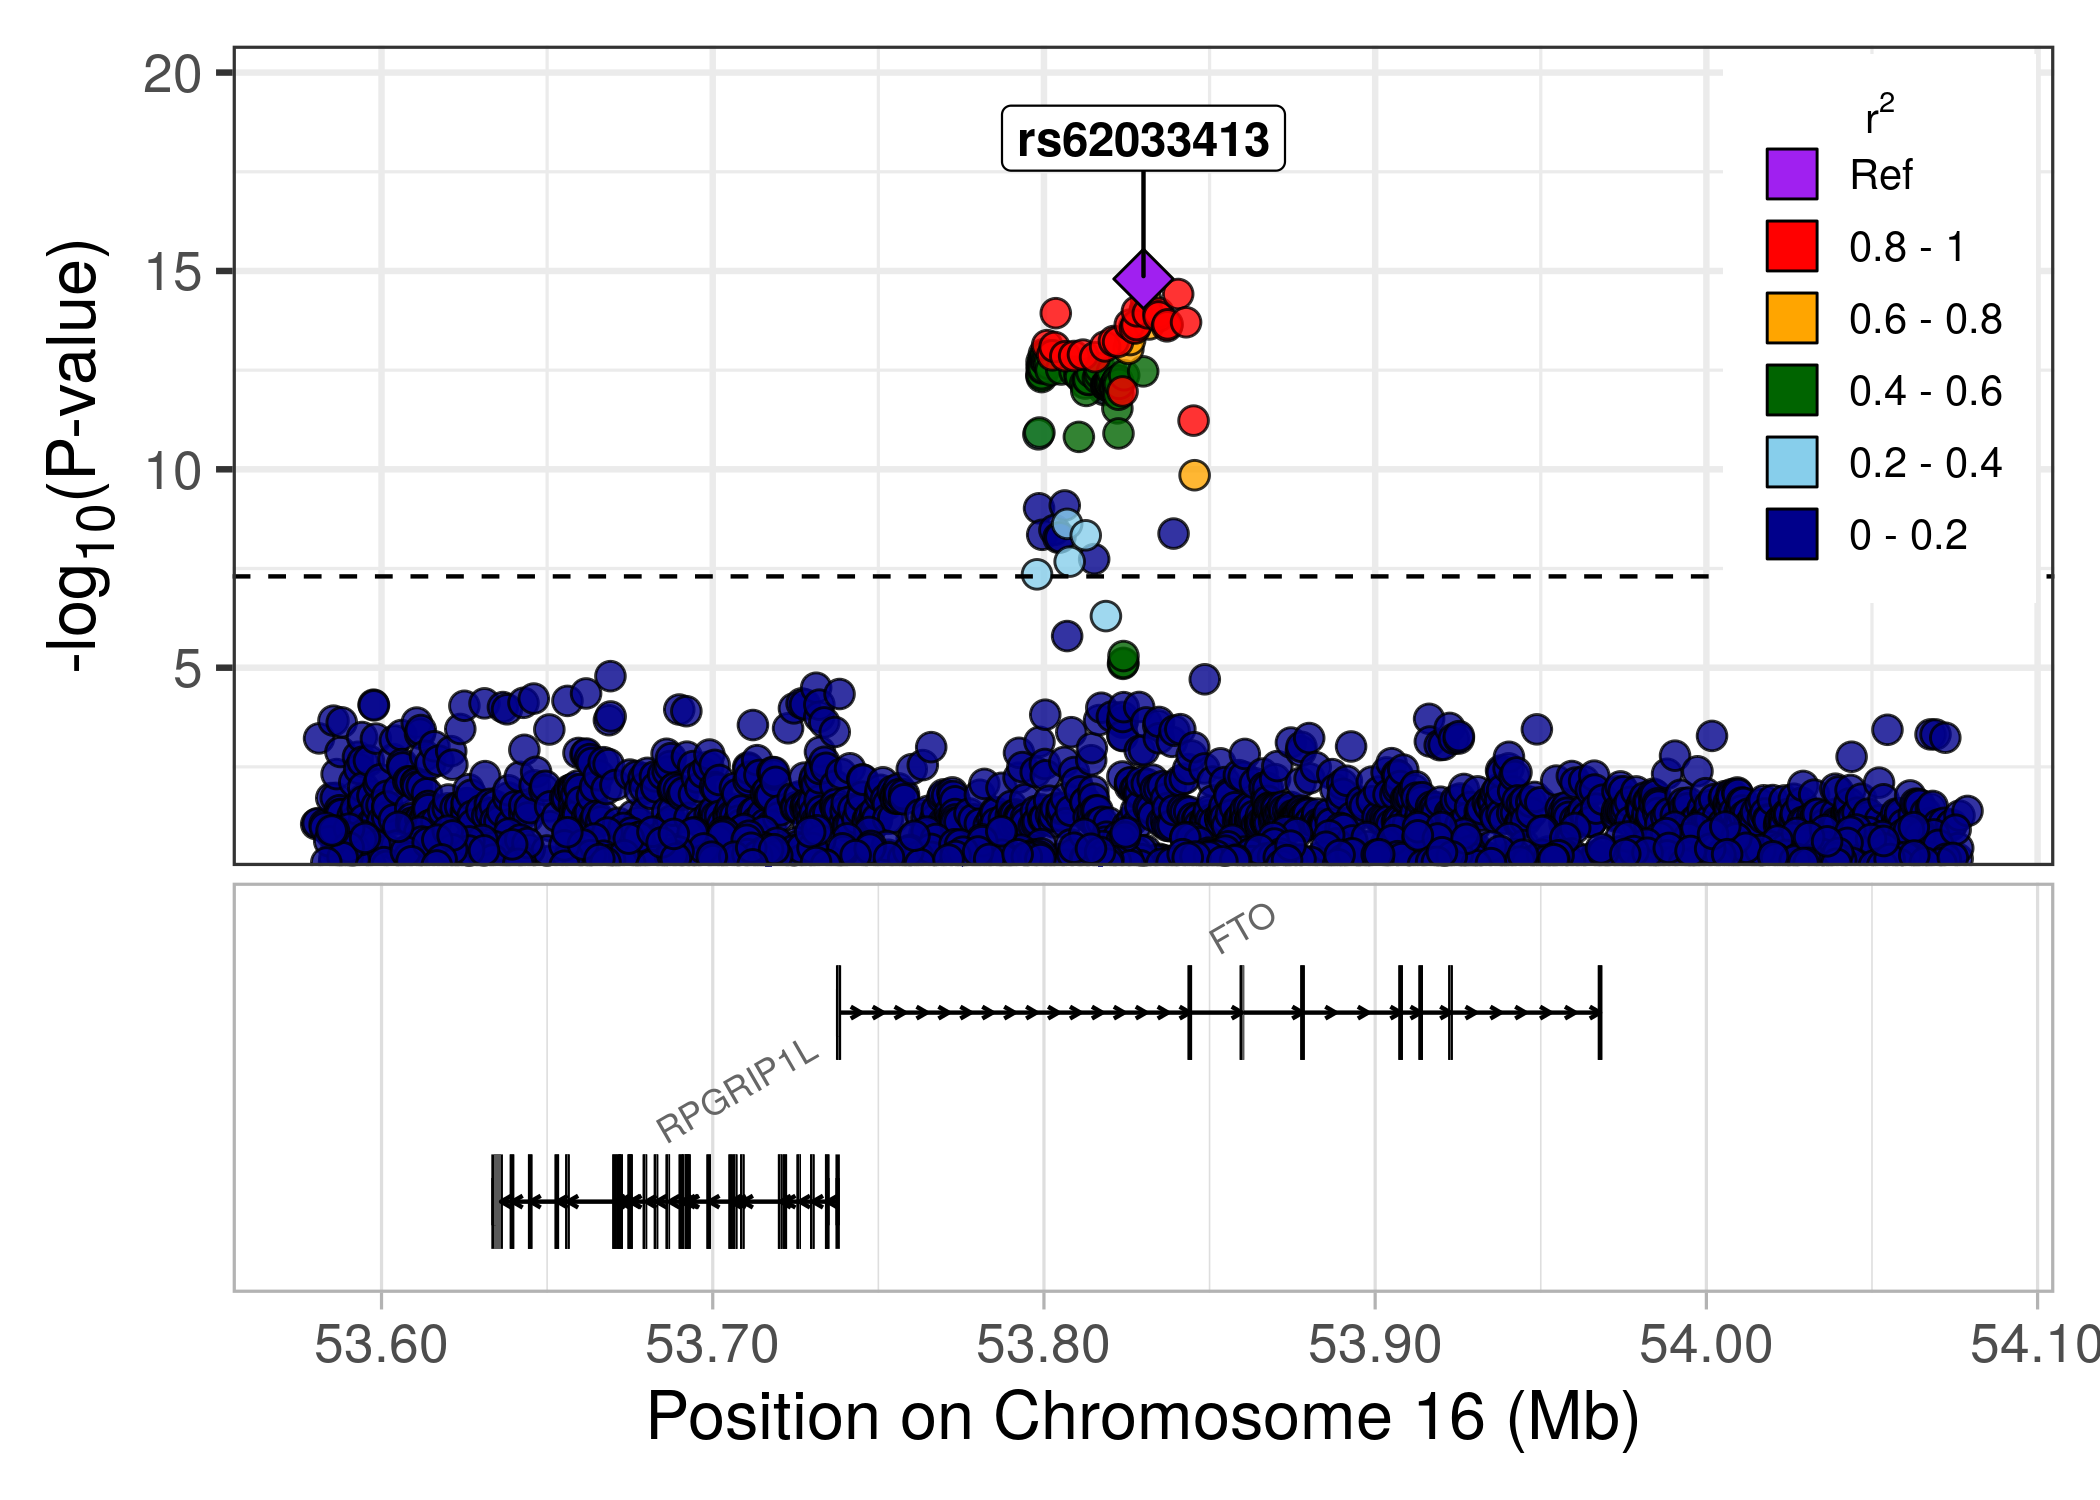
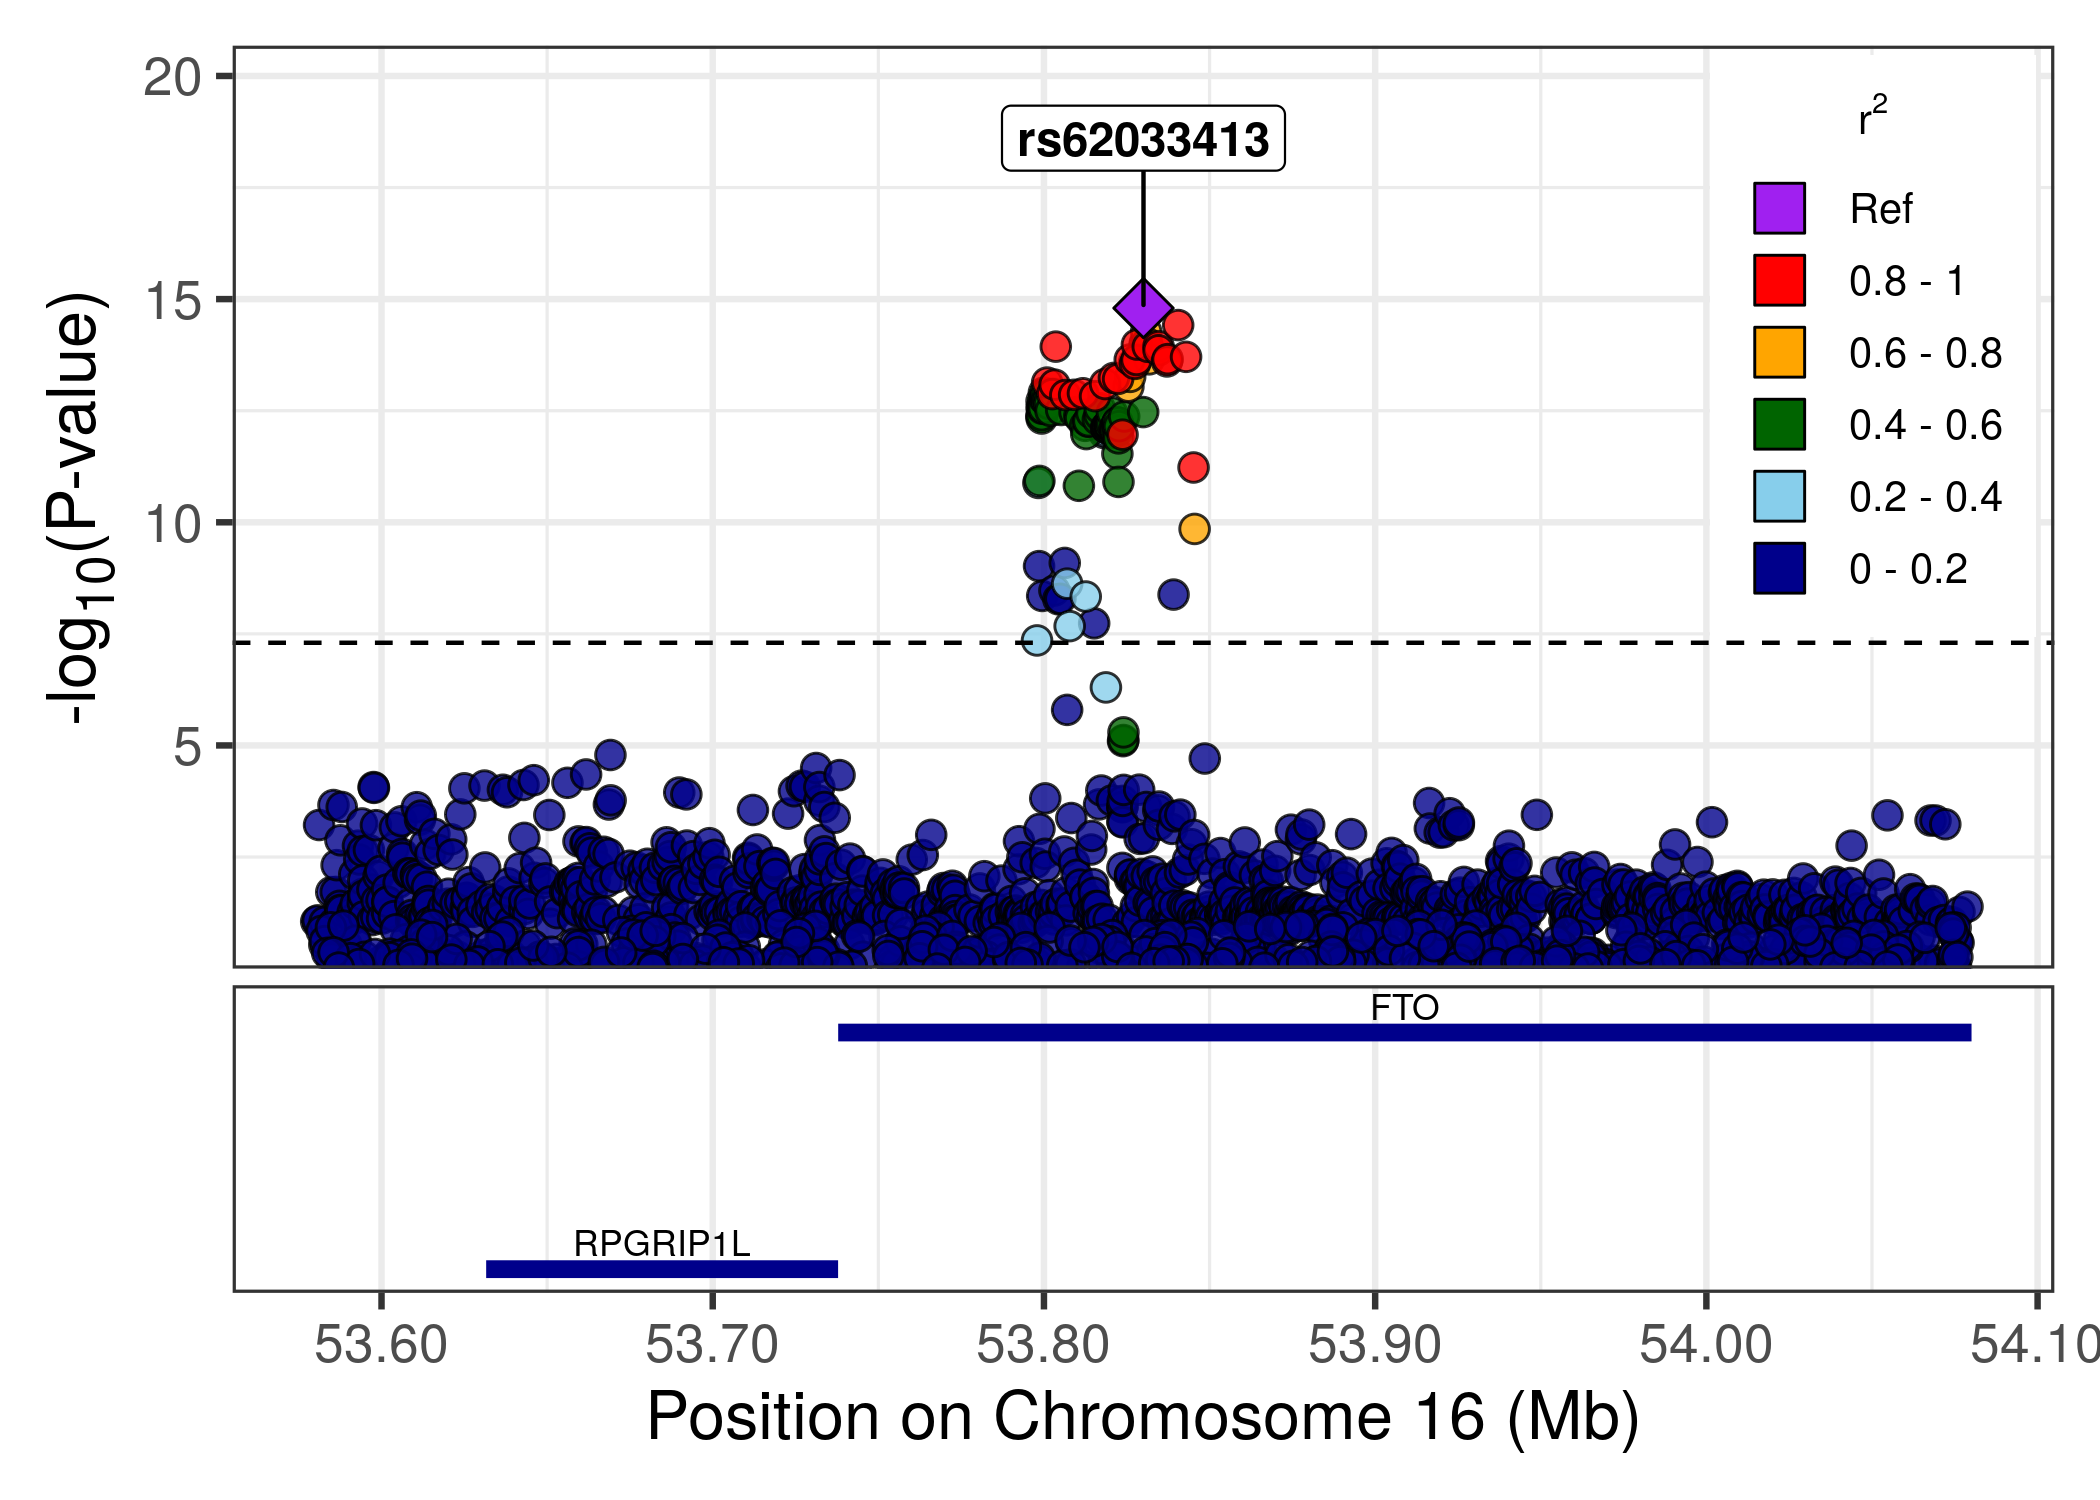
Streamline gene plotting, remove bioconductor dependencies

diff --git a/README.md b/README.md
@@ -8,6 +8,7 @@
 [![Lifecycle:
 experimental](https://img.shields.io/badge/lifecycle-experimental-orange.svg)](https://lifecycle.r-lib.org/articles/stages.html#experimental)
 [![R-CMD-check](https://github.com/mglev1n/locusplotr/workflows/R-CMD-check/badge.svg)](https://github.com/mglev1n/locusplotr/actions)
+[![R-CMD-check](https://github.com/mglev1n/locusplotr/actions/workflows/R-CMD-check.yaml/badge.svg)](https://github.com/mglev1n/locusplotr/actions/workflows/R-CMD-check.yaml)
 <!-- badges: end -->
 
 The goal of `locusplotr` is to allow users to integrate genome-wide
